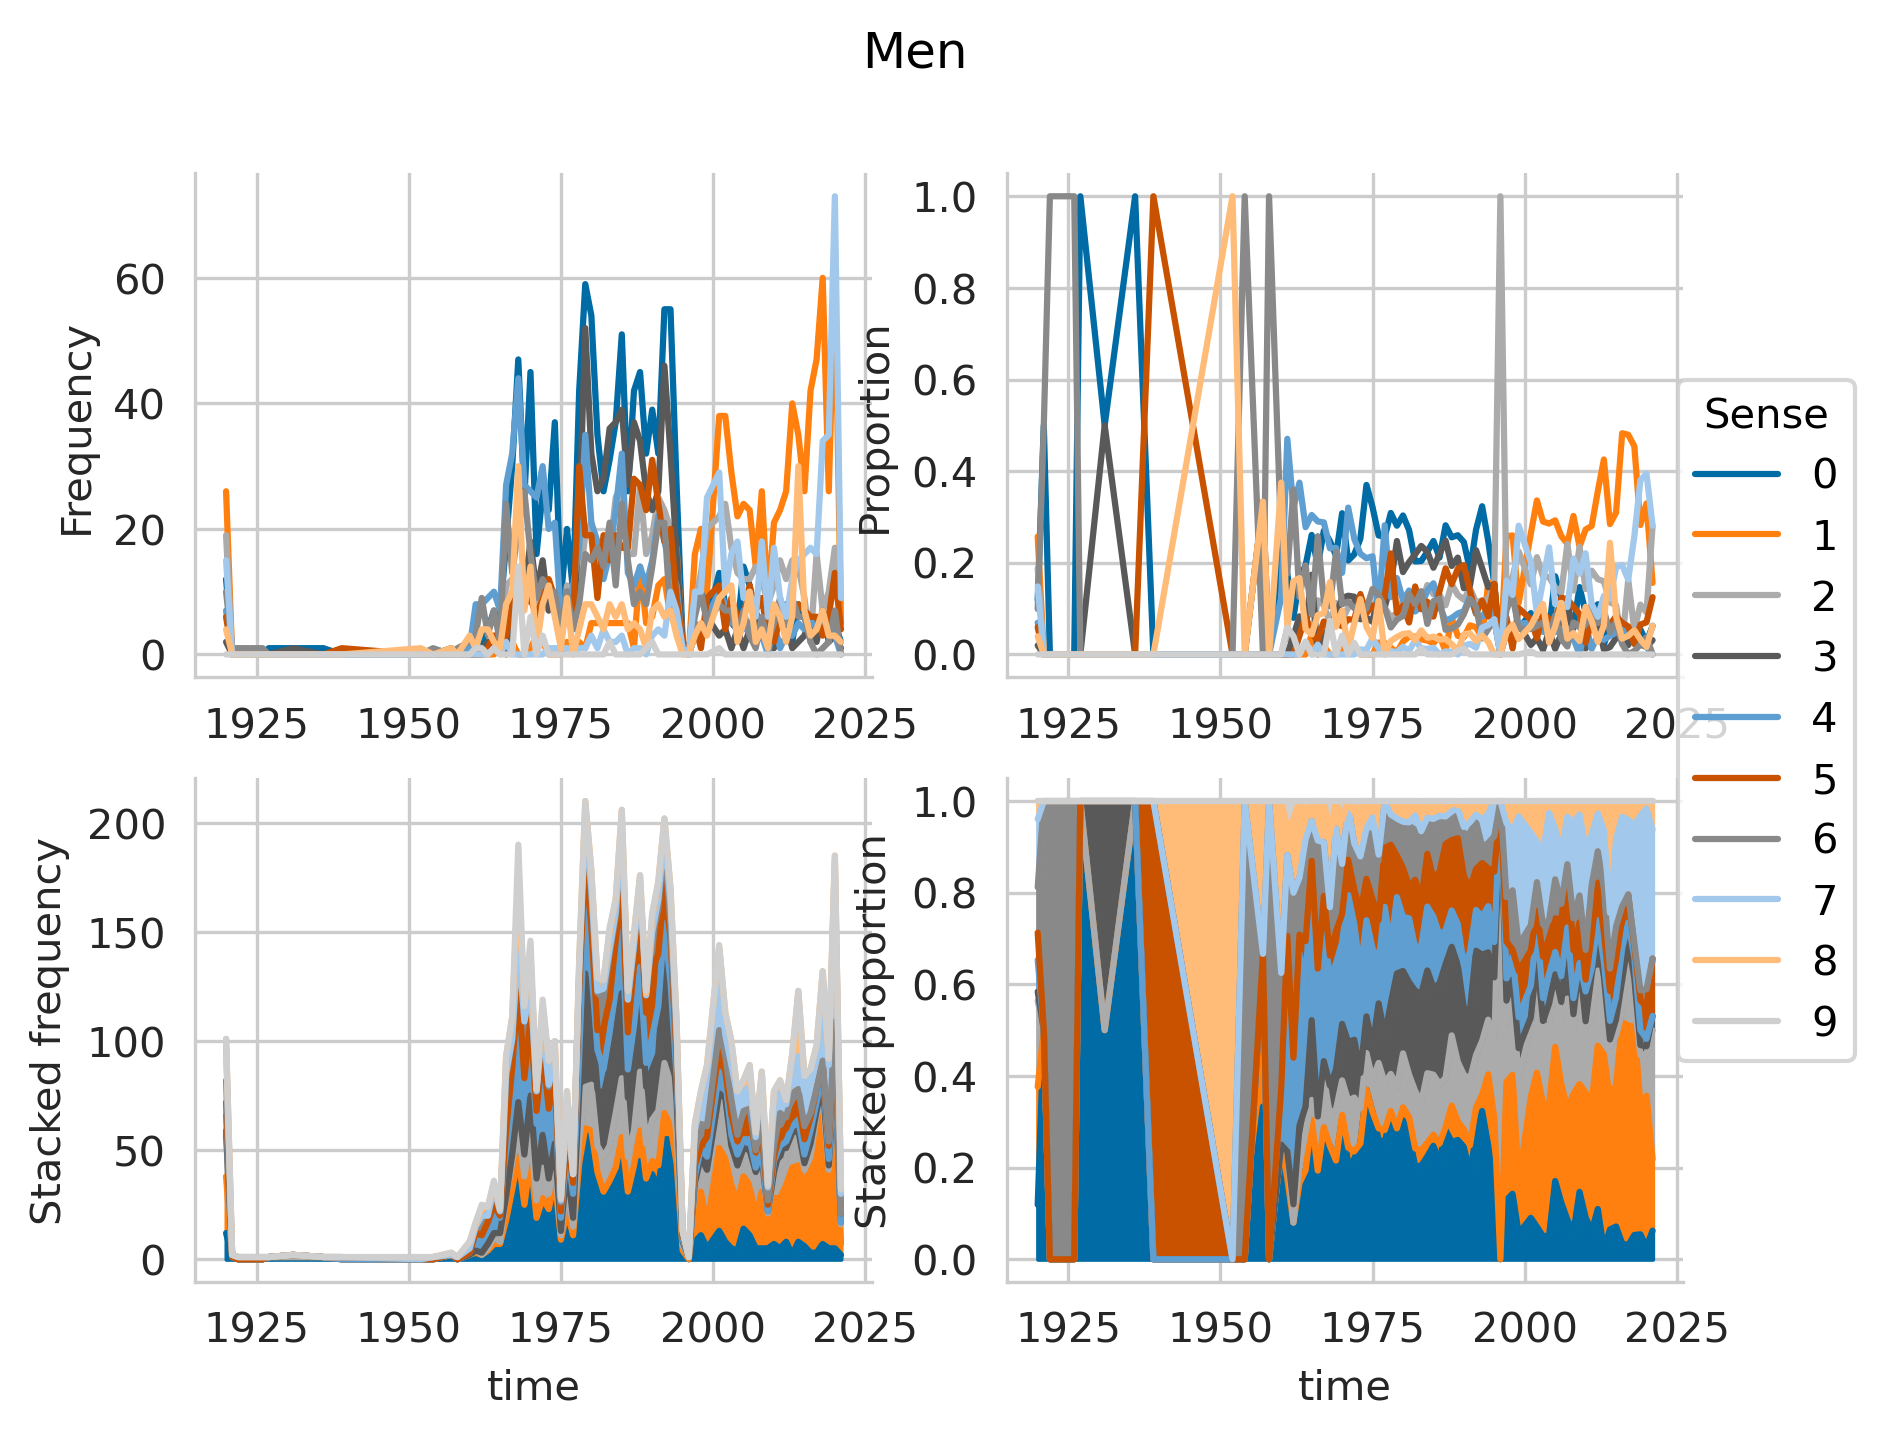
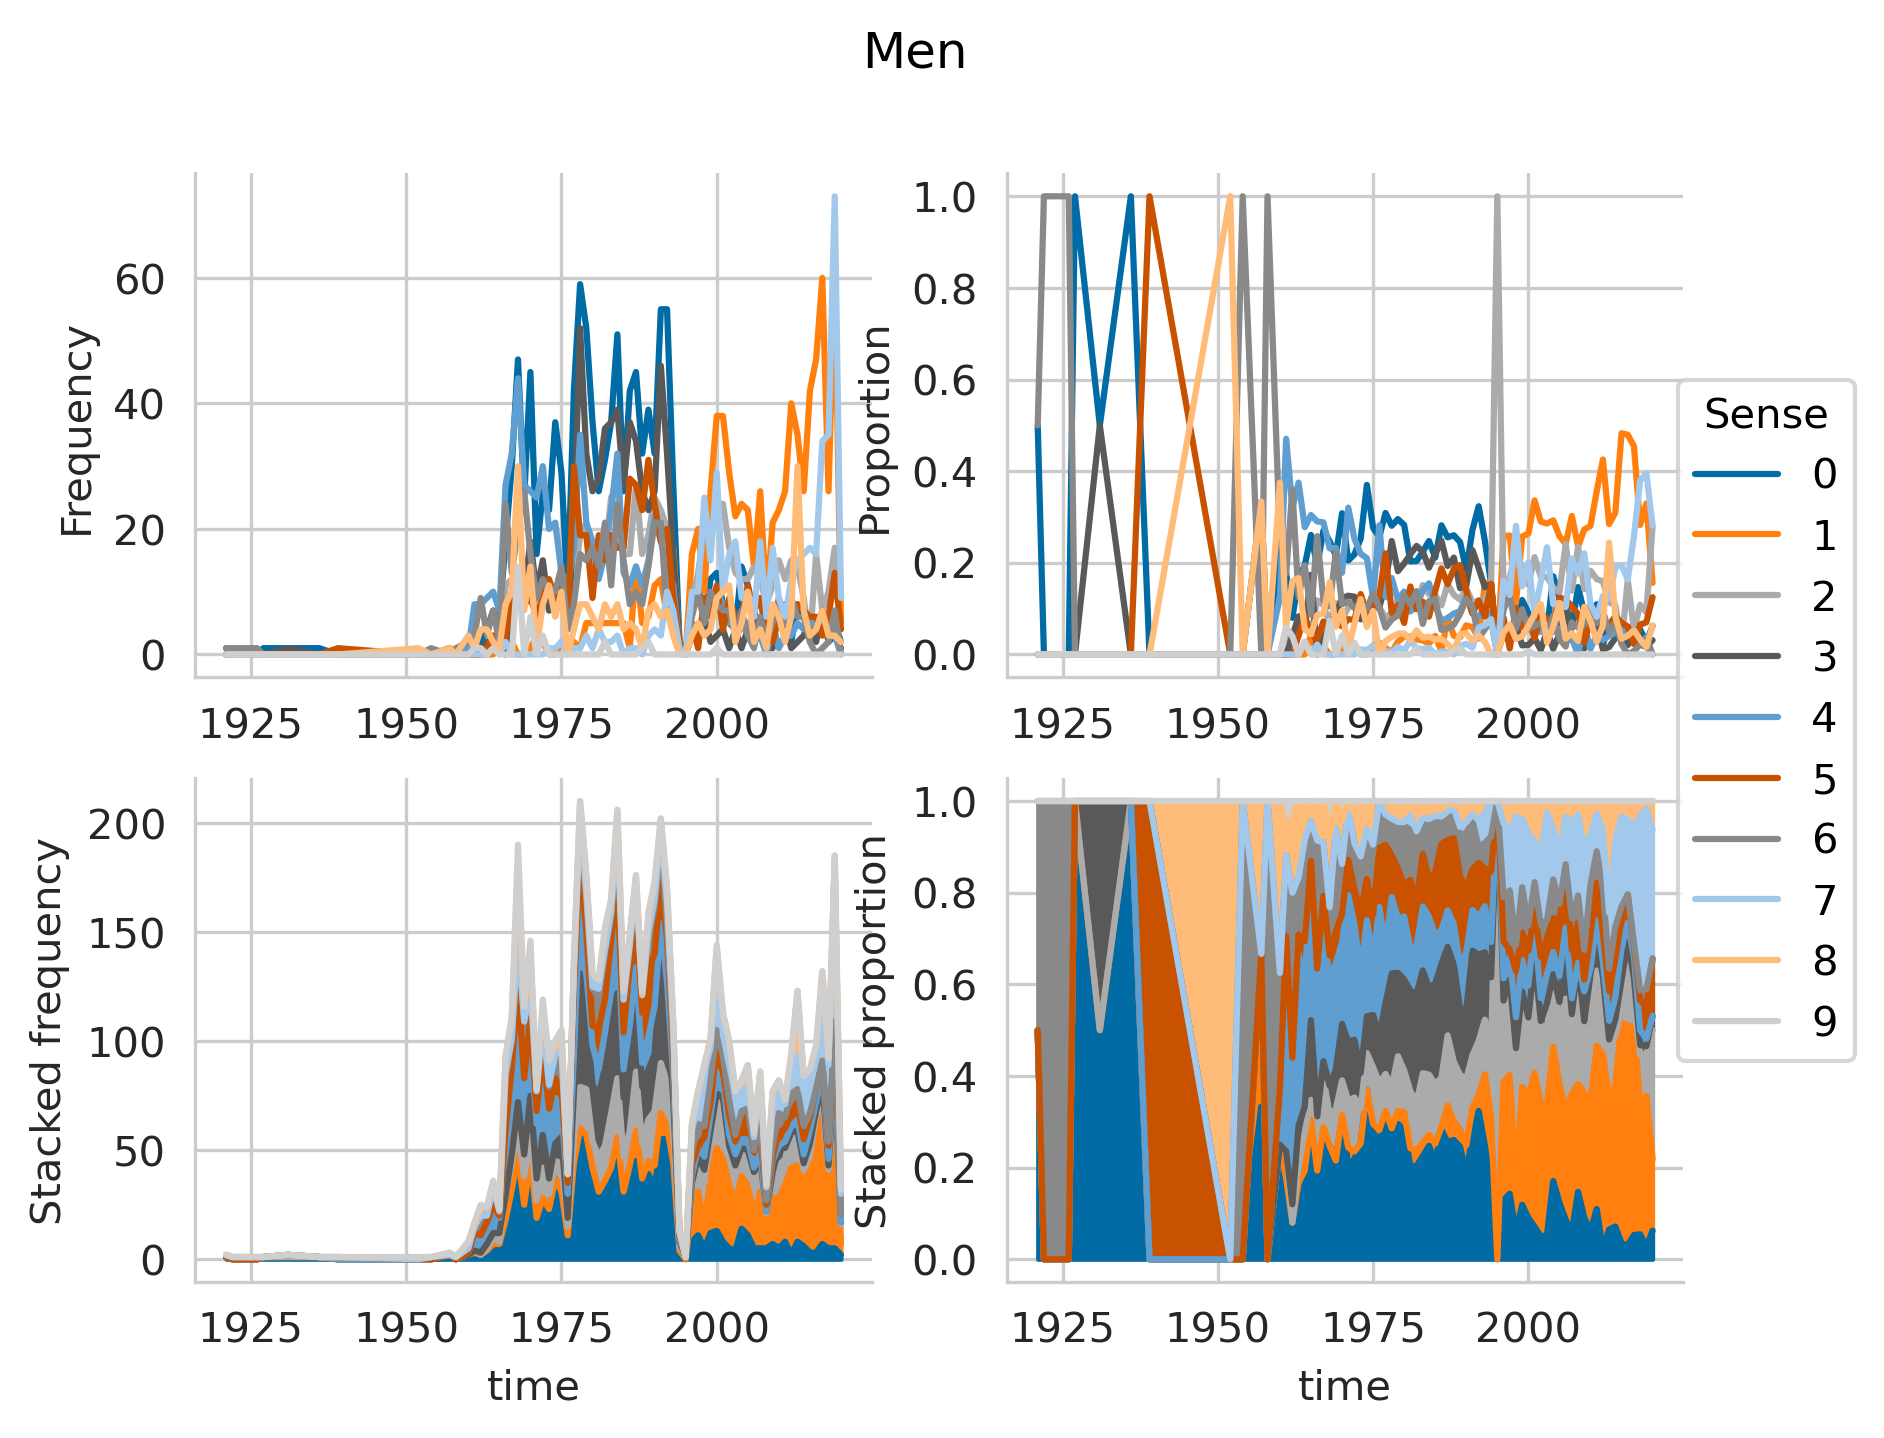
Fixed bug where year 2000 became 1920 in plots

diff --git a/pyscripts/results.py b/pyscripts/results.py
@@ -1,4 +1,5 @@
 import numpy as np
+import pandas as pd
 import os, json
 from pygibbs import utils
 import matplotlib.pyplot as plt
@@ -7,71 +8,83 @@ import matplotlib.pyplot as plt
 def cleanYear(year):
     if len(year) == 4:
         return int(year)
+    return int(year[:4])
 
-    year = list(year)
-    year = ''.join(year[0:2] + year[4:6])
-    return int(year)
+def main():
+    results = 'results/second-run'
+    folders = [f for f in os.listdir(results) if os.path.isdir(os.path.join(results, f))]
 
-def main(folder):
-    in_path = os.path.join(folder, 'model')
-    Nd = np.load(os.path.join(in_path, 'Nd.npy'))
-    Nk = np.load(os.path.join(in_path, 'Nk.npy'))
-    theta = np.load(os.path.join(in_path, 'theta.npy'))
-    phi = np.load(os.path.join(in_path, 'phi.npy'))
-    z = np.load(os.path.join(in_path, 'z.npy'))
-    logdensity = np.load(os.path.join(in_path, 'logdensity.npy'))
-    logposterior = np.load(os.path.join(in_path, 'logposterior.npy'))
+    for folder in folders:
+        in_path = os.path.join(results, folder, 'model')
+        Nd = np.load(os.path.join(in_path, 'Nd.npy'))
+        Nk = np.load(os.path.join(in_path, 'Nk.npy'))
+        theta = np.load(os.path.join(in_path, 'theta.npy'))
+        phi = np.load(os.path.join(in_path, 'phi.npy'))
+        z = np.load(os.path.join(in_path, 'z.npy'))
+        logdensity = np.load(os.path.join(in_path, 'logdensity.npy'))
+        posterior = np.load(os.path.join(in_path, 'posterior.npy'))
 
-    file = '_'.join(folder.split('/')[-1].split('_')[:3]) + '.json'
-    
-    with open(os.path.join('data/context_windows', file)) as f:
-        data = json.load(f)
-    with open(os.path.join(in_path, 'vocab.json')) as f:
-        vocab = json.load(f)
-    with open('data/stopwords-sv.txt','r') as f:
-        stopwords = f.read().splitlines()
+        file = '_'.join(folder.split('/')[-1].split('_')[:3]) + '.json'
+        
+        meta = pd.read_csv(f'data/context_windows/{folder[0]}_meta.csv')
+        with open('../riksdagen-corpus/corpus/party_mapping.json') as f:
+            party_map = json.load(f)
+        with open(os.path.join('data/context_windows', file)) as f:
+            data = json.load(f)
+        with open(os.path.join(in_path, 'vocab.json')) as f:
+            vocab = json.load(f)
+        with open('data/stopwords-sv.txt','r') as f:
+            stopwords = f.read().splitlines()
 
-    doc = data["doc"]
-    w = data["w"]
-    file_dir = data["file_path"]
-    years = list(map(lambda x: cleanYear(x.split('/')[3]), file_dir))
-    target = list(map(lambda x: x[:4], data["target"])) # Lemmatize
-    M, V, K = len(z), np.shape(Nk)[1], len(Nd)
-    z, phi, Nk = utils.z_sorter(z, phi, Nk, K)
+        doc = data["doc"]
+        w = data["w"]
+        file_dir = data["file_path"]
+        target = data["target"]
+        years = list(map(lambda x: cleanYear(x.split('/')[3]), file_dir))
+        lemmas = list(map(lambda x: x[:4], data["target"])) # Lemmatize
+        M, V, K = len(z), np.shape(Nk)[1], len(Nd)
+        z, phi, Nk = utils.z_sorter(z, phi, Nk, K)
 
-    color = ['#006BA4', '#FF800E', '#ABABAB', '#595959', '#5F9ED1',\
-             '#C85200', '#898989', '#A2C8EC', '#FFBC79', '#CFCFCF'][:K]
+        color = ['#006BA4', '#FF800E', '#ABABAB', '#595959', '#5F9ED1',\
+                 '#C85200', '#898989', '#A2C8EC', '#FFBC79', '#CFCFCF'][:K]
 
-    out_path = os.path.join(folder, 'analysis')
-    f = utils.convergence_plot(logdensity, 1000, color)
-    plt.savefig(os.path.join(out_path, 'logdensity.png'), dpi=300, bbox_inches='tight')
-    plt.close()
+        out_path = os.path.join(results, folder, 'analysis')
+        f = utils.convergence_plot(logdensity, 1000, color)
+        plt.savefig(os.path.join(out_path, 'logdensity.png'), dpi=300, bbox_inches='tight')
+        plt.close()
 
-    f = utils.senses_over_time(years, doc, z, color)
-    plt.savefig(os.path.join(out_path, 'senses_over_time.png'), dpi=300, bbox_inches='tight')
-    plt.close()
+        f = utils.senses_over_time(years, doc, z, color)
+        plt.savefig(os.path.join(out_path, 'senses_over_time.png'), dpi=300, bbox_inches='tight')
+        plt.close()
 
-    f = utils.word_freq_over_time(years, target, color)
-    plt.savefig(os.path.join(out_path, 'word_prop_over_time.png'), dpi=300, bbox_inches='tight')
-    plt.close()
+        for gender in ["woman", "man"]:
+            f = utils.senses_over_time(years, doc, z, color, meta, "gender", gender)
+            f.suptitle('Women' if gender == "woman" else "Men")
+            gender_abbrev = "m" if gender == "man" else "f"
+            plt.savefig(os.path.join(out_path, f'gender/senses_over_time_{gender_abbrev}.png'), dpi=300, bbox_inches='tight')
 
-    topwords = utils.topWords(phi, vocab, K, stopwords)
-    topwords.to_csv(os.path.join(out_path, 'top_words.csv'), index=False)
-    
-    distinctwords = utils.distinctWords(Nk, vocab, K)
-    distinctwords.to_csv(os.path.join(out_path, 'distinct_words.csv'), index=False)
+        parties = [p for p in list(set(meta["party_abbrev"])) if str(p) != 'nan']
+        for party in parties:
+            f = utils.senses_over_time(years, doc, z, color, meta, "party_abbrev", party)
+            f.suptitle(max([key for key,value in party_map.items() if value == party]))
+            plt.savefig(os.path.join(out_path, f'party/senses_over_time_{party}.png'), dpi=300, bbox_inches='tight')
 
-    topdocs = utils.topDocs(doc, w, logposterior, K, file_dir, n=20, seed=123)
-    with open('/'.join([out_path, 'top_docs_by_topic.txt']), 'w') as f:
-        for line in topdocs:
-            f.write(line + '\n'*2)
+        f = utils.word_freq_over_time(years, lemmas, color)
+        plt.savefig(os.path.join(out_path, 'word_prop_over_time.png'), dpi=300, bbox_inches='tight')
+        plt.close()
 
-    print(f'Folder {folder} finished.')
+        topwords = utils.topWords(phi, vocab, K, stopwords, list(set(target)))
+        topwords.to_csv(os.path.join(out_path, 'top_words.csv'), index=False)
+        
+        distinctwords = utils.distinctWords(Nk, vocab, K)
+        distinctwords.to_csv(os.path.join(out_path, 'distinct_words.csv'), index=False)
+
+        topdocs = utils.topDocs(doc, w, posterior, K, file_dir, n=20, seed=123)
+        with open('/'.join([out_path, 'top_docs_by_topic.txt']), 'w') as f:
+            for line in topdocs:
+                f.write(line + '\n'*2)
+
+        print(f'Folder {folder} finished.')
 
 if __name__ == "__main__":
-    results = 'results/second-run'
-    folders = sorted(os.listdir(results))
-    folders = [f for f in folders if f.startswith('j')]
-    for folder in folders:
-        if os.path.isdir(os.path.join(results, folder)):
-            main(os.path.join(results, folder))
+    main()
